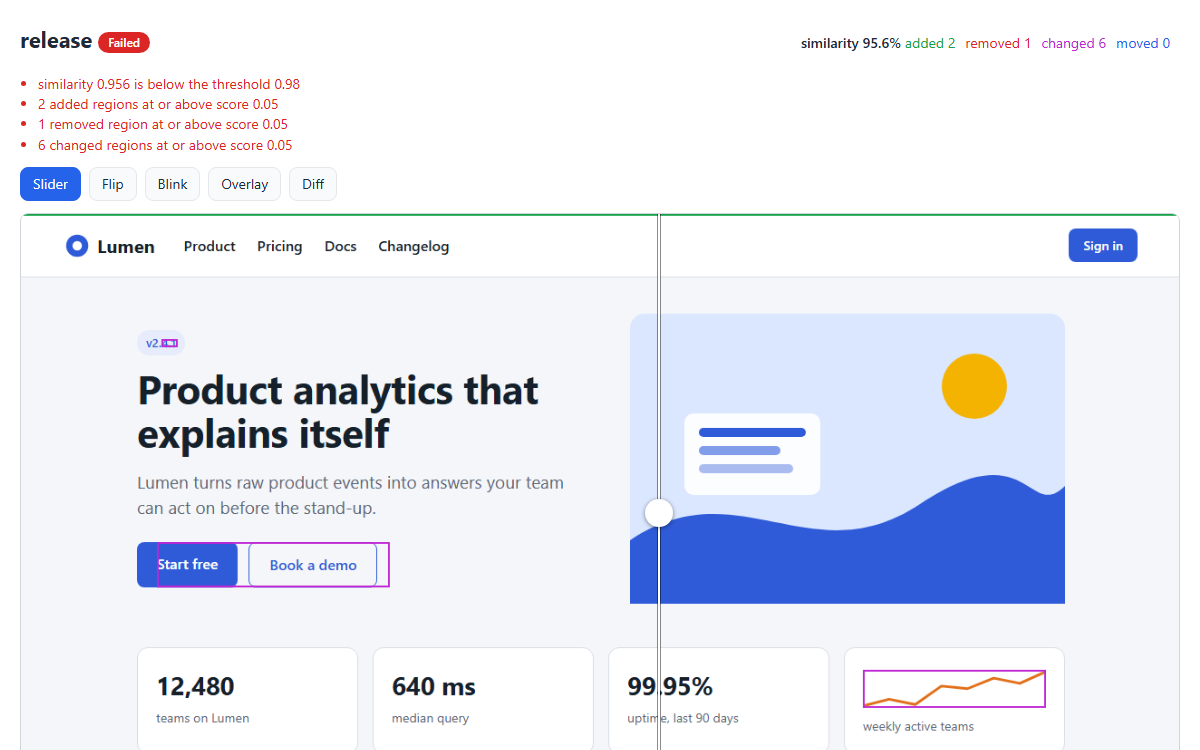
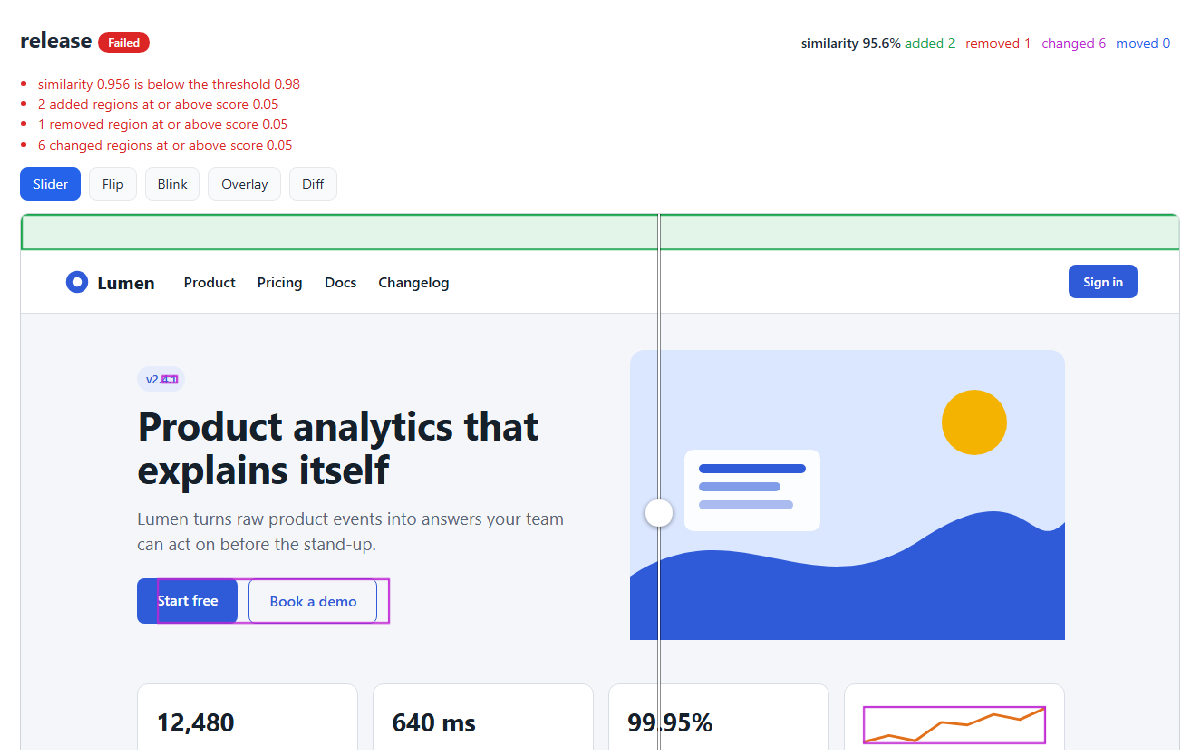
feat(elastishot): update to version 0.1.2 and improve project descriptions

diff --git a/index.html b/index.html
@@ -772,7 +772,7 @@
                 <article class="project-card">
                     <figure class="project-media">
                         <img src="./img/elastishot.png" width="1200" height="750" loading="lazy" decoding="async"
-                             alt="An Elastishot pair report for the scenario 'release', marked Failed with similarity 95.6%, 2 added, 1 removed, 6 changed and 0 moved regions. Below the mode buttons Slider, Flip, Blink, Overlay and Diff, the slider viewer shows the same product page before and after a release: a version badge, a button label and a sparkline chart are outlined as changed regions, and a green line marks the banner that was added at the top.">
+                             alt="An Elastishot pair report for the scenario 'release', marked Failed with similarity 95.6%, 2 added, 1 removed, 6 changed and 0 moved regions. Below the mode buttons Slider, Flip, Blink, Overlay and Diff, the slider viewer shows the same product page before and after a release: a green-tinted gap with a green outline marks the banner that was added at the top, and a version badge, a button label and a sparkline chart are outlined as changed regions.">
                     </figure>
                     <div class="project-body">
                         <div class="project-info">
@@ -792,12 +792,12 @@
                             <ul class="project-points">
                                 <li>Feature alignment (ORB + RANSAC) recovers zoom, crop and shift; a strip alignment absorbs sections that grew, collapsed or moved.</li>
                                 <li>Regions are added, removed, changed or moved, each attributed to a test id, role or CSS path from an element map recorded at capture time.</li>
-                                <li>HTML report with a slider, flip, blink, overlay and diff viewer, plus JSON, JUnit and exit codes for CI. Open source, MIT, no telemetry.</li>
+                                <li>HTML report with a slider, flip, blink, overlay and diff viewer that keeps both sides lined up below an inserted or removed section, plus JSON, JUnit and exit codes for CI. Open source, MIT, no telemetry.</li>
                             </ul>
                             <div class="project-stack">
                                 <span>TypeScript</span><span>Node.js</span><span>opencv.js (WASM)</span><span>Playwright</span><span>Web Components</span><span>node:test</span>
                             </div>
-                            <p class="project-meta"><svg class="svg-icon" viewBox="0 0 512 512" aria-hidden="true" focusable="false"><use href="#i-check-circle"></use></svg> ATDD: 29 Gherkin scenarios driving the built CLI, plus 132 unit, engine and browser tests.</p>
+                            <p class="project-meta"><svg class="svg-icon" viewBox="0 0 512 512" aria-hidden="true" focusable="false"><use href="#i-check-circle"></use></svg> ATDD: 29 Gherkin scenarios driving the built CLI, plus 142 unit, engine and browser tests.</p>
                             <p class="project-links">
                                 <a href="https://github.com/Osman19702/elastishot" target="_blank" rel="noopener noreferrer"><svg class="svg-icon" viewBox="0 0 496 512" aria-hidden="true" focusable="false"><use href="#i-github"></use></svg> Source on GitHub</a>
                             </p>
@@ -812,26 +812,26 @@
                                     <span class="btn-icon"><svg class="svg-icon" viewBox="0 0 512 512" aria-hidden="true" focusable="false"><use href="#i-cubes"></use></svg></span>
                                 </a>
                             </div>
-                            <p class="project-meta"><svg class="svg-icon" viewBox="0 0 384 512" aria-hidden="true" focusable="false"><use href="#i-id-badge"></use></svg> Version <span class="project-version">0.1.0</span></p>
+                            <p class="project-meta"><svg class="svg-icon" viewBox="0 0 384 512" aria-hidden="true" focusable="false"><use href="#i-id-badge"></use></svg> Version <span class="project-version">0.1.2</span></p>
                             <p class="project-meta"><svg class="svg-icon" viewBox="0 0 512 512" aria-hidden="true" focusable="false"><use href="#i-cogs"></use></svg> Node.js 20 or newer; Playwright's Chromium only for page captures</p>
-                            <p class="project-meta"><svg class="svg-icon" viewBox="0 0 512 512" aria-hidden="true" focusable="false"><use href="#i-cubes"></use></svg> 129 KiB package (131,804 bytes). The 13 MB opencv.js WebAssembly build installs as a dependency; no native compile step.</p>
-                            <p class="project-meta"><svg class="svg-icon" viewBox="0 0 448 512" aria-hidden="true" focusable="false"><use href="#i-calendar-alt"></use></svg> Released <time datetime="2026-09-14">14 Sep 2026</time></p>
+                            <p class="project-meta"><svg class="svg-icon" viewBox="0 0 512 512" aria-hidden="true" focusable="false"><use href="#i-cubes"></use></svg> 137 KiB package (139,781 bytes). The 13 MB opencv.js WebAssembly build installs as a dependency; no native compile step.</p>
+                            <p class="project-meta"><svg class="svg-icon" viewBox="0 0 448 512" aria-hidden="true" focusable="false"><use href="#i-calendar-alt"></use></svg> Released <time datetime="2026-09-15">15 Sep 2026</time></p>
 
                             <p class="project-hash">
                                 <span class="project-hash-label">SHA-256</span>
-                                <code>0E42FC67CF3D3C238F6A9B955B3044700097A557002FD78A80607F7F6F46BCF4</code>
+                                <code>7AE3605F9257C356D02A8FEC0E0A8559075A520891E8E7FDDF89B4897299C1FB</code>
                             </p>
                             <p class="project-verify-label">Verify the tarball npm serves (PowerShell):</p>
-                            <pre class="project-verify"><code>npm pack elastishot@0.1.0
-Get-FileHash .\elastishot-0.1.0.tgz -Algorithm SHA256</code></pre>
+                            <pre class="project-verify"><code>npm pack elastishot@0.1.2
+Get-FileHash .\elastishot-0.1.2.tgz -Algorithm SHA256</code></pre>
 
                             <p class="info-stats project-note" id="elastishot-note">
                                 <strong>Install with</strong> <code>npm install -D elastishot</code>. The digest above is the registry tarball's, and the GitHub release
-                                carries the same file with its <code>SHA256SUMS</code>. Releases after 0.1.0 are published from GitHub Actions with npm provenance,
-                                so the package page shows which commit and workflow built them.
+                                carries the same file with its <code>SHA256SUMS</code>. Since 0.1.1 every release is published from GitHub Actions with npm provenance,
+                                so the package page shows which commit and workflow built it.
                             </p>
                             <p class="project-links">
-                                <a href="https://github.com/Osman19702/elastishot/releases/download/v0.1.0/SHA256SUMS" target="_blank" rel="noopener noreferrer"><svg class="svg-icon" viewBox="0 0 512 512" aria-hidden="true" focusable="false"><use href="#i-tasks"></use></svg> Checksums (SHA256SUMS)</a>
+                                <a href="https://github.com/Osman19702/elastishot/releases/download/v0.1.2/SHA256SUMS" target="_blank" rel="noopener noreferrer"><svg class="svg-icon" viewBox="0 0 512 512" aria-hidden="true" focusable="false"><use href="#i-tasks"></use></svg> Checksums (SHA256SUMS)</a>
                             </p>
                         </div>
                     </div>

diff --git a/tests/visual/run.js b/tests/visual/run.js
@@ -98,13 +98,16 @@ function summarise(runDir) {
     git('worktree', 'add', '--detach', worktree, ref);
     const baselines = path.join(ROOT, '.elastishot', 'baselines', ref.replace(/[^\w.-]+/g, '_'));
     fs.rmSync(baselines, { recursive: true, force: true });
+    const approvalRun = fs.mkdtempSync(path.join(os.tmpdir(), 'portfolio-baseline-run-'));
     const base = serve(worktree, PORT_BASE);
     const head = serve(ROOT, PORT_HEAD);
     try {
         await waitForServer(base.url);
         await waitForServer(head.url);
         console.log(`\n== baseline: ${ref} (${sha}) served from ${worktree}`);
-        const approved = await elastishot(['run', '--config', CONFIG, '--update'], { VISUAL_PORT: String(PORT_BASE), VISUAL_BASELINES: baselines });
+        // The approval pass is only a capture; its run folder would otherwise
+        // sit next to the comparison in .elastishot/runs and in the CI artifact.
+        const approved = await elastishot(['run', '--config', CONFIG, '--update', '--out', approvalRun], { VISUAL_PORT: String(PORT_BASE), VISUAL_BASELINES: baselines });
         // A section that does not exist yet on the reference (a new tab) is an
         // error on this side and a "new" pair on the next; only a reference
         // that captured nothing at all is a failure.
@@ -123,6 +126,7 @@ function summarise(runDir) {
     } finally {
         base.child.kill();
         head.child.kill();
+        fs.rmSync(approvalRun, { recursive: true, force: true });
         try {
             git('worktree', 'remove', '--force', worktree);
         } catch {

diff --git a/README.md b/README.md
@@ -95,8 +95,8 @@ machine in the same run, so fonts and Chromium cancel out and nothing has to be
 committed as a baseline. Exit code 1 means differences; the report in
 `.elastishot/runs/latest/index.html` shows them with a slider and the locators.
 The same script runs on every pull request in CI against the target branch and
-uploads its report as the `elastishot-report` artifact. Elastishot is installed from
-`vendor/elastishot-0.1.0.tgz` until it is published to npm.
+uploads its report as the `elastishot-report` artifact. Elastishot comes from npm
+(`elastishot@^0.1.2`, a devDependency).
 
 ### Expected failures
 
